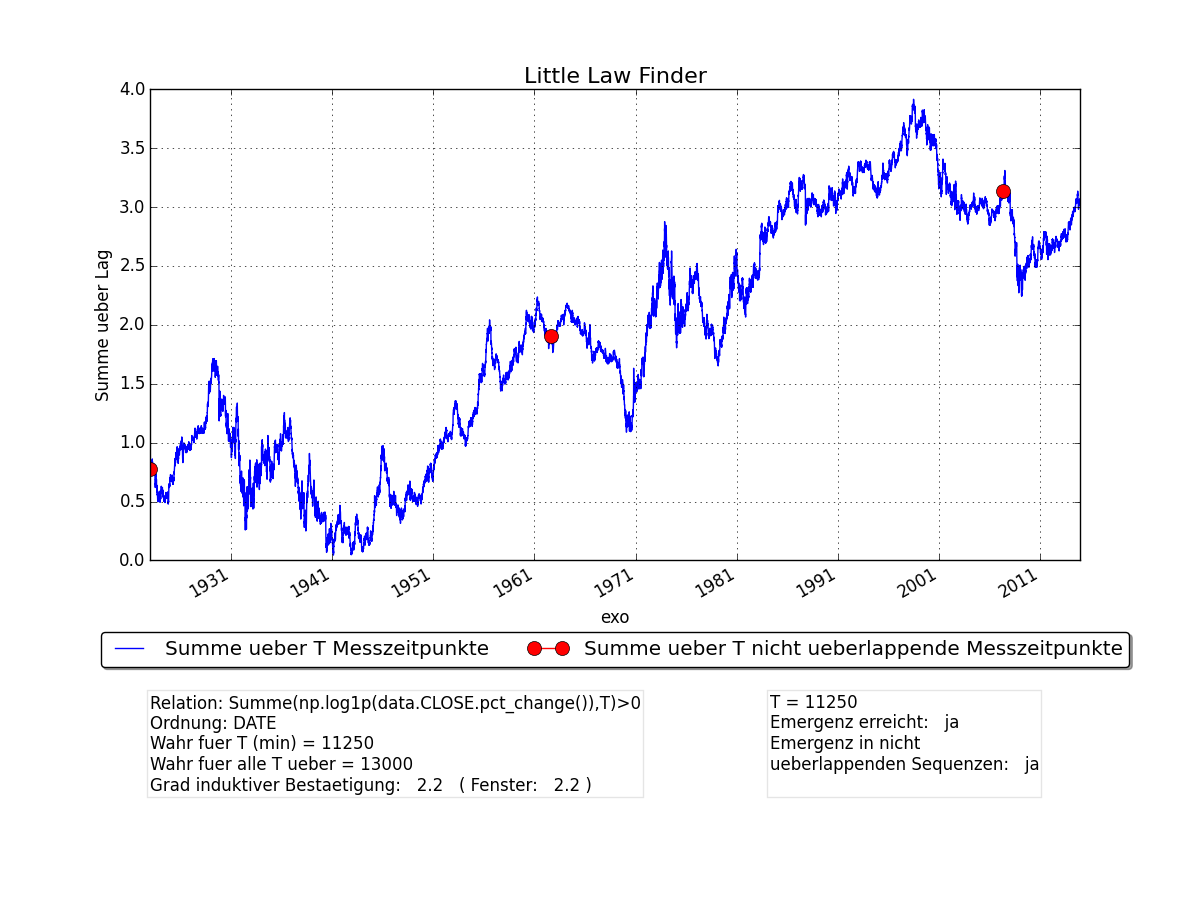
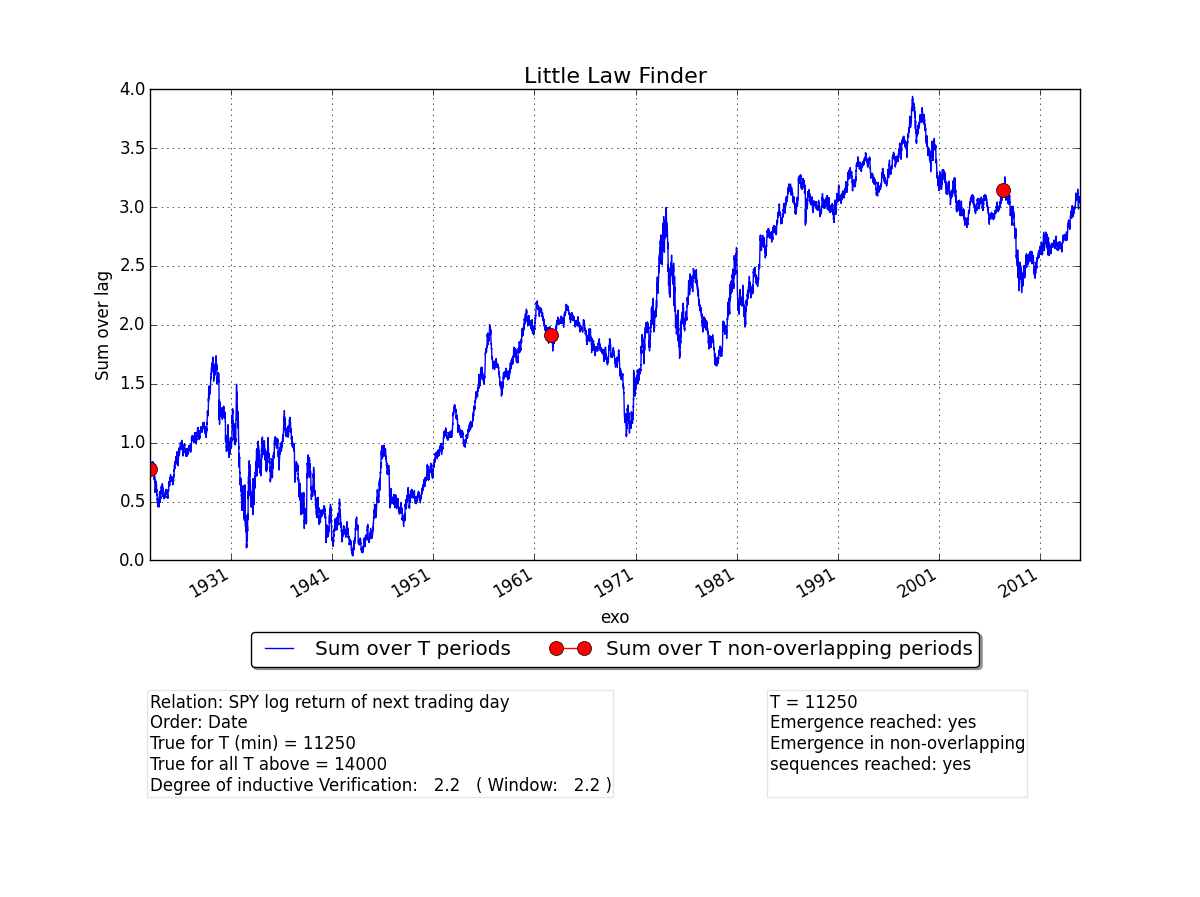
added some documentation and docstrings, fixed a few errors

diff --git a/little_lawfinder.py b/little_lawfinder.py
@@ -1,91 +1,136 @@
 __author__ = 'Andre Kuck, Jan Philipp Harries'
 
-#Litte Law Finder Alpha 0.1
+
+"""
+Litte Law Finder Alpha 0.1
+
+Finds empirical laws in arbitrary data
+
+More information on www.updl.de
+"""
+
 
 import pandas as pd
 import numpy as np
 import matplotlib.pyplot as plt
 
 def create_rawdata(endogen,exogen):
+    """Takes two pandas series of the same length and
+    returns one series, indexed by the other.
+
+    :param endogen: pandas series for which emergent laws will be searched
+    :param exogen: pandas series (must be of same length as endogen) which will be used as explanatory variable
+    :return: pandas series of endogen, indexed by exogen
+    """
     zwi=pd.DataFrame({'exo':exogen,'endo':endogen}).dropna()
     zwi=zwi.sort(columns='exo')
     zwi.index=zwi['exo']
     return zwi['endo']
 
-def berechne_step(rawdata, lag, stype="increase"):
+def calc_step(rawdata, lag, stype="level"):
+    """Takes a series of an endogen variable indexed by an exogen variable and a lag and calculates
+    a moving sum over lag periods. If stype is "increase", will return the increase of the moving sum over lag
+    periods.
+
+    :param rawdata: pandas series of an endogen variable indexed by an exogen variable
+    :param lag: lag for which the moving sum is calculated (int)
+    :param stype: should be "level" or "increase" (optional, default is "level"
+    :return: Tuple of (moving sum/increase of moving sum, moving sum every lag periods)
+    """
     rollrendite=pd.rolling_sum(rawdata,lag)
-    #rollrendite=pd.rolling_sum(rawdata,lag, min_periods=0)
     if stype=="increase":
         rollrendite=rollrendite-rollrendite.shift(lag)
+    elif stype=="level":
+        pass
+    else:
+        raise ValueError('wrong stype - use "level" or "increase"')
     rollrendite_no=pd.Series(index=np.arange(len(rollrendite)))
     rollrendite_no[(rollrendite_no.index%lag)==0]=rollrendite.reset_index()[0]
     rollrendite_no.index=rollrendite.index
     return rollrendite, rollrendite_no
 
-def create_lawplot(fig,rollrendite,rollrendite_no,lag, min_emergenz, max_emergenz, emergenz_ueberl):
+def create_lawplot(fig,rollrendite,rollrendite_no,lag, min_emergenz, max_emergenz, emergenz_ueberl,
+                   des_endogen="endogenous variable", des_exogen="exogenous variable"):
+    """Creates a Plot visualising the results
+
+    :param fig: Matplotlib figure on which the plot will be drawed (should be of size (12,9))
+    :param rollrendite: moving sum/increase of moving sum for endogen/exogen, output of calc_step()
+    :param rollrendite_no: moving sum/increase of moving sum every lag periods, output of calc_step()
+    :param lag: lag for which the moving sum was calculated (int)
+    :param min_emergenz: minimum emergence level found, int - 0 if no emergence reached
+    :param max_emergenz: lag for which all greater lags have reached emergence, int - 0 if no emergence reached
+    :param emergenz_ueberl: minimum emergence level found for non overlapping periods, int - 0 if no emergence reached
+    :param des_endogen: description for endogenous variable
+    :param des_exogen: description for exogenous variable
+    :return: edited matplotlib figure
+    """
     plt.clf()
     plt.figure(fig.number)
-    emergenz="  ja" if min_emergenz else "nein"
-    emergenz_ueberl="  ja" if emergenz_ueberl else "nein"
-    t_wahr="{0:5d}".format(min_emergenz) if emergenz=="  ja" else "  n/a"
+    emergenz="yes" if min_emergenz else " no"
+    emergenz_ueberl="yes" if emergenz_ueberl else " no"
+    t_wahr="{0:5d}".format(min_emergenz) if min_emergenz else "  n/a"
     t_wahr_max="{0:5d}".format(max_emergenz) if max_emergenz else "  n/a"
     fenster="{0:5.1f}".format((len(rollrendite)-lag)/float(lag))
-    grad_best="{0:5.1f}".format((len(rollrendite)-min_emergenz)/float(min_emergenz)) if emergenz=="  ja" else "  n/a"
+    grad_best="{0:5.1f}".format((len(rollrendite)-min_emergenz)/float(min_emergenz)) if min_emergenz else "  n/a"
 
-    #fig=plt.figure(figsize=(12,8))
     ax=fig.add_subplot(1,1,1)
     ax.set_title('Little Law Finder', fontsize=16)
-    ax.set_xlabel('Date')
-    ax.set_ylabel('Summe ueber Lag')
-    rollrendite.plot(label='Summe ueber T Messzeitpunkte')
-    rollrendite_no.plot(marker='o', color='red', markersize=10.0, label='Summe ueber T nicht ueberlappende Messzeitpunkte')
+    ax.set_xlabel(des_exogen)
+    ax.set_ylabel('Sum over lag')
+    rollrendite.plot(label='Sum over T periods')
+    rollrendite_no.plot(marker='o', color='red', markersize=10.0, label='Sum over T non-overlapping periods')
     box = ax.get_position()
     ax.set_position([box.x0, box.y0 + box.height * 0.25,
                      box.width, box.height * 0.75])
     ax.legend(loc='upper center', bbox_to_anchor=(0.5, -0.13),
               fancybox=True, shadow=True, ncol=5)
-
-    #ax.set_xlim([rollrendite[~np.isnan(rollrendite)].index[0]-100,rollrendite.index[-1]])
-    #todo debug
-    try:
-        ax.set_xlim([rollrendite[~np.isnan(rollrendite)].index[0],rollrendite.index[-1]]) #todo TEST raus
-    except IndexError:
-        import pdb
-        pdb.set_trace()
-
+    ax.set_xlim([rollrendite[~np.isnan(rollrendite)].index[0],rollrendite.index[-1]])
     limits=ax.axis()
     text1x=limits[0]
     text1y=limits[2]-(limits[3]-limits[2])/2.05
-    text1text=("Relation: Summe(np.log1p(data.CLOSE.pct_change()),T)>0\n"
-               "Ordnung: DATE\n"
-               "Wahr fuer T (min) = {}\n"
-               "Wahr fuer alle T ueber = {}\n"
-               "Grad induktiver Bestaetigung: {}   ( Fenster: {} )").format(t_wahr, t_wahr_max, grad_best, fenster)
+    text1text=("Relation: {}\n"
+               "Order: {}\n"
+               "True for T (min) = {}\n"
+               "True for all T above = {}\n"
+               "Degree of inductive Verification: {}   ( Window: {} )").format(des_endogen, des_exogen, t_wahr, t_wahr_max, grad_best, fenster)
 
     text1=ax.text(text1x,text1y,text1text, bbox=dict(facecolor='white', alpha=0.1), fontsize=12)
-
     text2x=limits[0]+(limits[1]-limits[0])/3*2
     text2text=("T = {}\n"
-               "Emergenz erreicht: {}\n"
-               "Emergenz in nicht\n"
-               "ueberlappenden Sequenzen: {}\n").format(lag,emergenz,emergenz_ueberl)
+               "Emergence reached: {}\n"
+               "Emergence in non-overlapping\n"
+               "sequences reached: {}\n").format(lag,emergenz,emergenz_ueberl)
     text1=ax.text(text2x,text1y,text2text, bbox=dict(facecolor='white', alpha=0.1), fontsize=12)
+    return fig
 
 
-def find_laws(endogen, exogen,lag_step=250, stype="level", graphic=True):
+def find_laws(endogen, exogen,lag_step=250, stype="level", plot_result=True, savepath="",
+              des_endogen="endogenous variable", des_exogen="exogenous variable"):
+    """Find empirical laws and calculate levels of Emergence
+
+    :param endogen: Endogenous variable (pandas series)
+    :param exogen:  Exogenous variable (pandas series - must have same length as endogen)
+    :param lag_step: Min lag and step for lag increase (int, should be >len(endogen)/1000) - default 250
+    :param stype: "level" for moving aggregation or "increase" for increase of aggregate sum - default level
+    :param plot_result: True if result should be visualized, False for quiet mode - default True
+    :param savepath: Path for plot images to be saved - empty string for no saving - default ""
+    :return: Tuple of (Minimum level of Emergence, lag for which all greater lags have reached emergence,
+             minimum emergence level found for non overlapping periods, Degree of inductive Verification)
+    """
     rawdata=create_rawdata(endogen,exogen)
     lag=lag_step
-    rollrendite, rollrendite_no=berechne_step(rawdata,lag, stype=stype)
+    rollrendite, rollrendite_no=calc_step(rawdata,lag, stype=stype)
     i=0
     min_emergenz=0
     max_emergenz=0
     next_max=False
     emergenz_ueberl=0
-    fig=plt.figure(figsize=(12,9))
+    if plot_result:
+        fig=plt.figure(figsize=(12,9))
     while lag<(len(rollrendite)/2)-lag_step:
         i+=1
         lag+=lag_step
-        rollrendite,rollrendite_no=berechne_step(rawdata,lag, stype=stype)
+        rollrendite,rollrendite_no=calc_step(rawdata,lag, stype=stype)
 
         if round(rollrendite.min(),4)>=0:
             if not min_emergenz:
@@ -102,31 +147,38 @@ def find_laws(endogen, exogen,lag_step=250, stype="level", graphic=True):
             if not emergenz_ueberl:
                 emergenz_ueberl=lag
 
-        create_lawplot(fig,rollrendite,rollrendite_no,lag, min_emergenz, max_emergenz, emergenz_ueberl)
-        number=str(10000+i)
-        #plt.savefig('E:\\Dev\\lawfinder_python\\filme\\'+number+'.png')
-        fig.canvas.draw()
-        plt.show(block=False)
-        #break #todo DEBUG raus
+        if plot_result:
+            create_lawplot(fig,rollrendite,rollrendite_no,lag, min_emergenz, max_emergenz, emergenz_ueberl,
+                           des_endogen=des_endogen, des_exogen=des_exogen)
+            if savepath:
+                number=str(10000+i)
+                plt.savefig(savepath+number+'.png')
+            fig.canvas.draw()
+            plt.show(block=False)
 
-    rollrendite,rollrendite_no=berechne_step(rawdata,min_emergenz, stype=stype)
-    create_lawplot(fig,rollrendite,rollrendite_no,min_emergenz, min_emergenz, max_emergenz, emergenz_ueberl)
-    plt.show()
+    div=(len(rollrendite)-min_emergenz)/float(min_emergenz)
+    print "Emergence reached: {}".format("yes" if min_emergenz else " no")
+    print "True for T (min): {0:5d}".format(min_emergenz)
+    print "True for all T above: {0:5d}".format(max_emergenz)
+    print "Degree of inductive Verification: {0:5.1f}".format(div)
+
+    if plot_result:
+        rollrendite,rollrendite_no=calc_step(rawdata,min_emergenz, stype=stype)
+        create_lawplot(fig,rollrendite,rollrendite_no,min_emergenz, min_emergenz, max_emergenz, emergenz_ueberl,
+                       des_endogen=des_endogen, des_exogen=des_exogen)
+        plt.show()
+    return min_emergenz,max_emergenz,emergenz_ueberl,div
 
 
 if __name__=="__main__":
+    #example data
     data=pd.read_csv('E:\\Dev\\lawfinder_python\\beispiele\\close_spy.csv', delimiter=";")
-    #data=data.set_index(pd.to_datetime(data.DATE))
-    #data=data.drop(['DATE'],axis=1)
     data.DATE=pd.to_datetime(data.DATE)
-    #Vars
-    endogen=np.log1p(data.CLOSE.pct_change())#.shift(-1)
-    exogen=data.DATE
-    #exogen=np.log1p(data.CLOSE.pct_change())
-    relation='groessergleich'
-    stype='niveau' #niveau/steigung
-    zwischenschritte=False
-    xachse_zeitlich=False
-    lag=250
-    min=-1
-    find_laws(endogen,exogen, stype=stype)
+
+    #define exogenous and endogenous variables
+    endogen=np.log1p(data.CLOSE.pct_change()).shift(-1)
+    exogen=data.DATE #select stype="level"
+    #exogen=np.log1p(data.CLOSE.pct_change()) #select stype="increase"
+
+    #find laws!
+    find_laws(endogen,exogen, stype="level", des_endogen="SPY log return of next trading day", des_exogen="Date")
